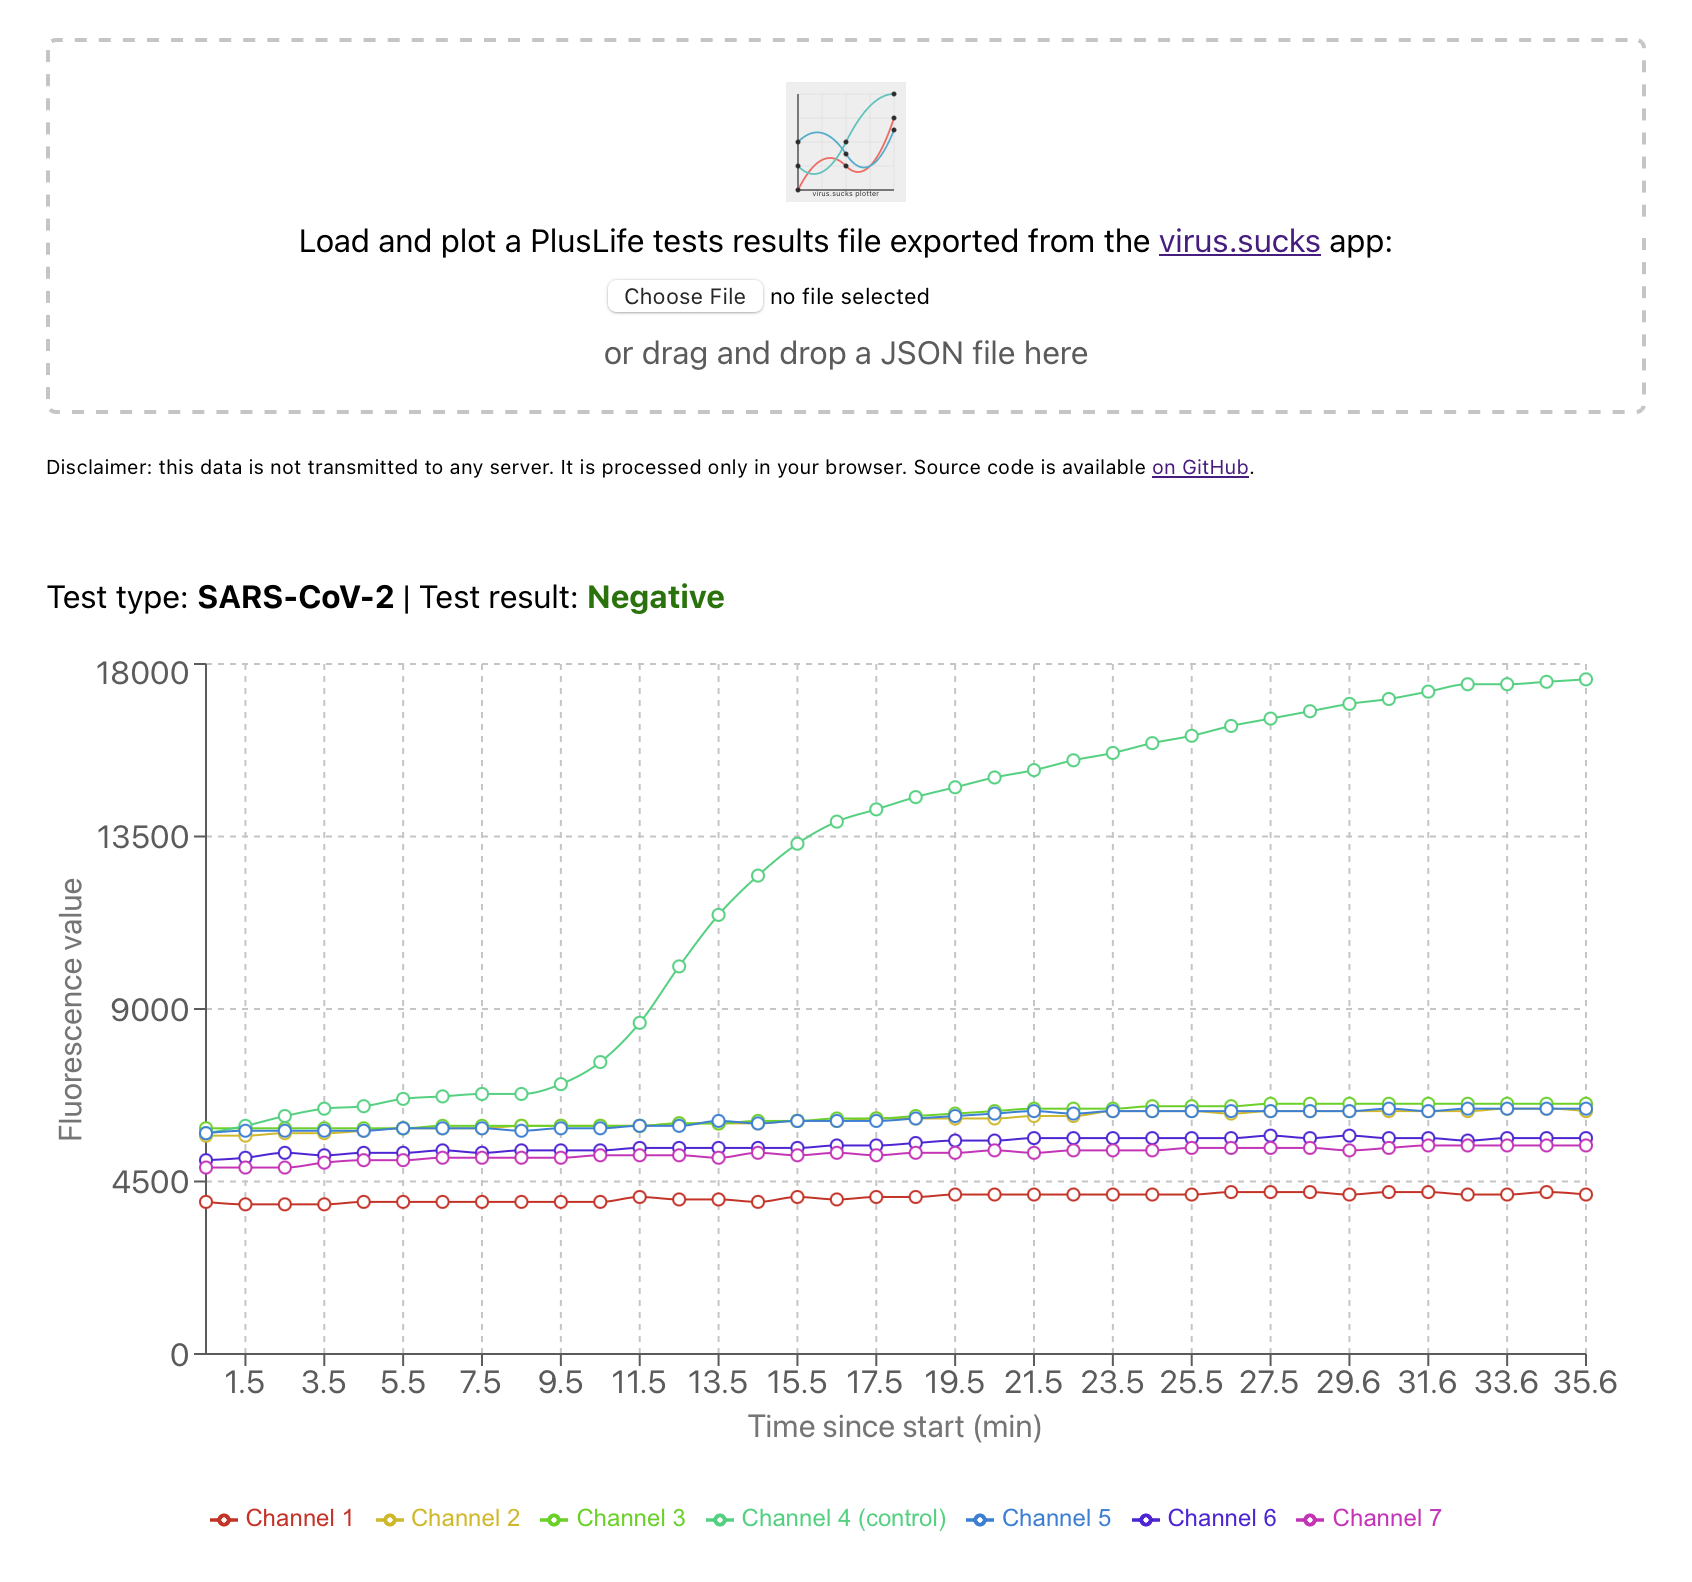
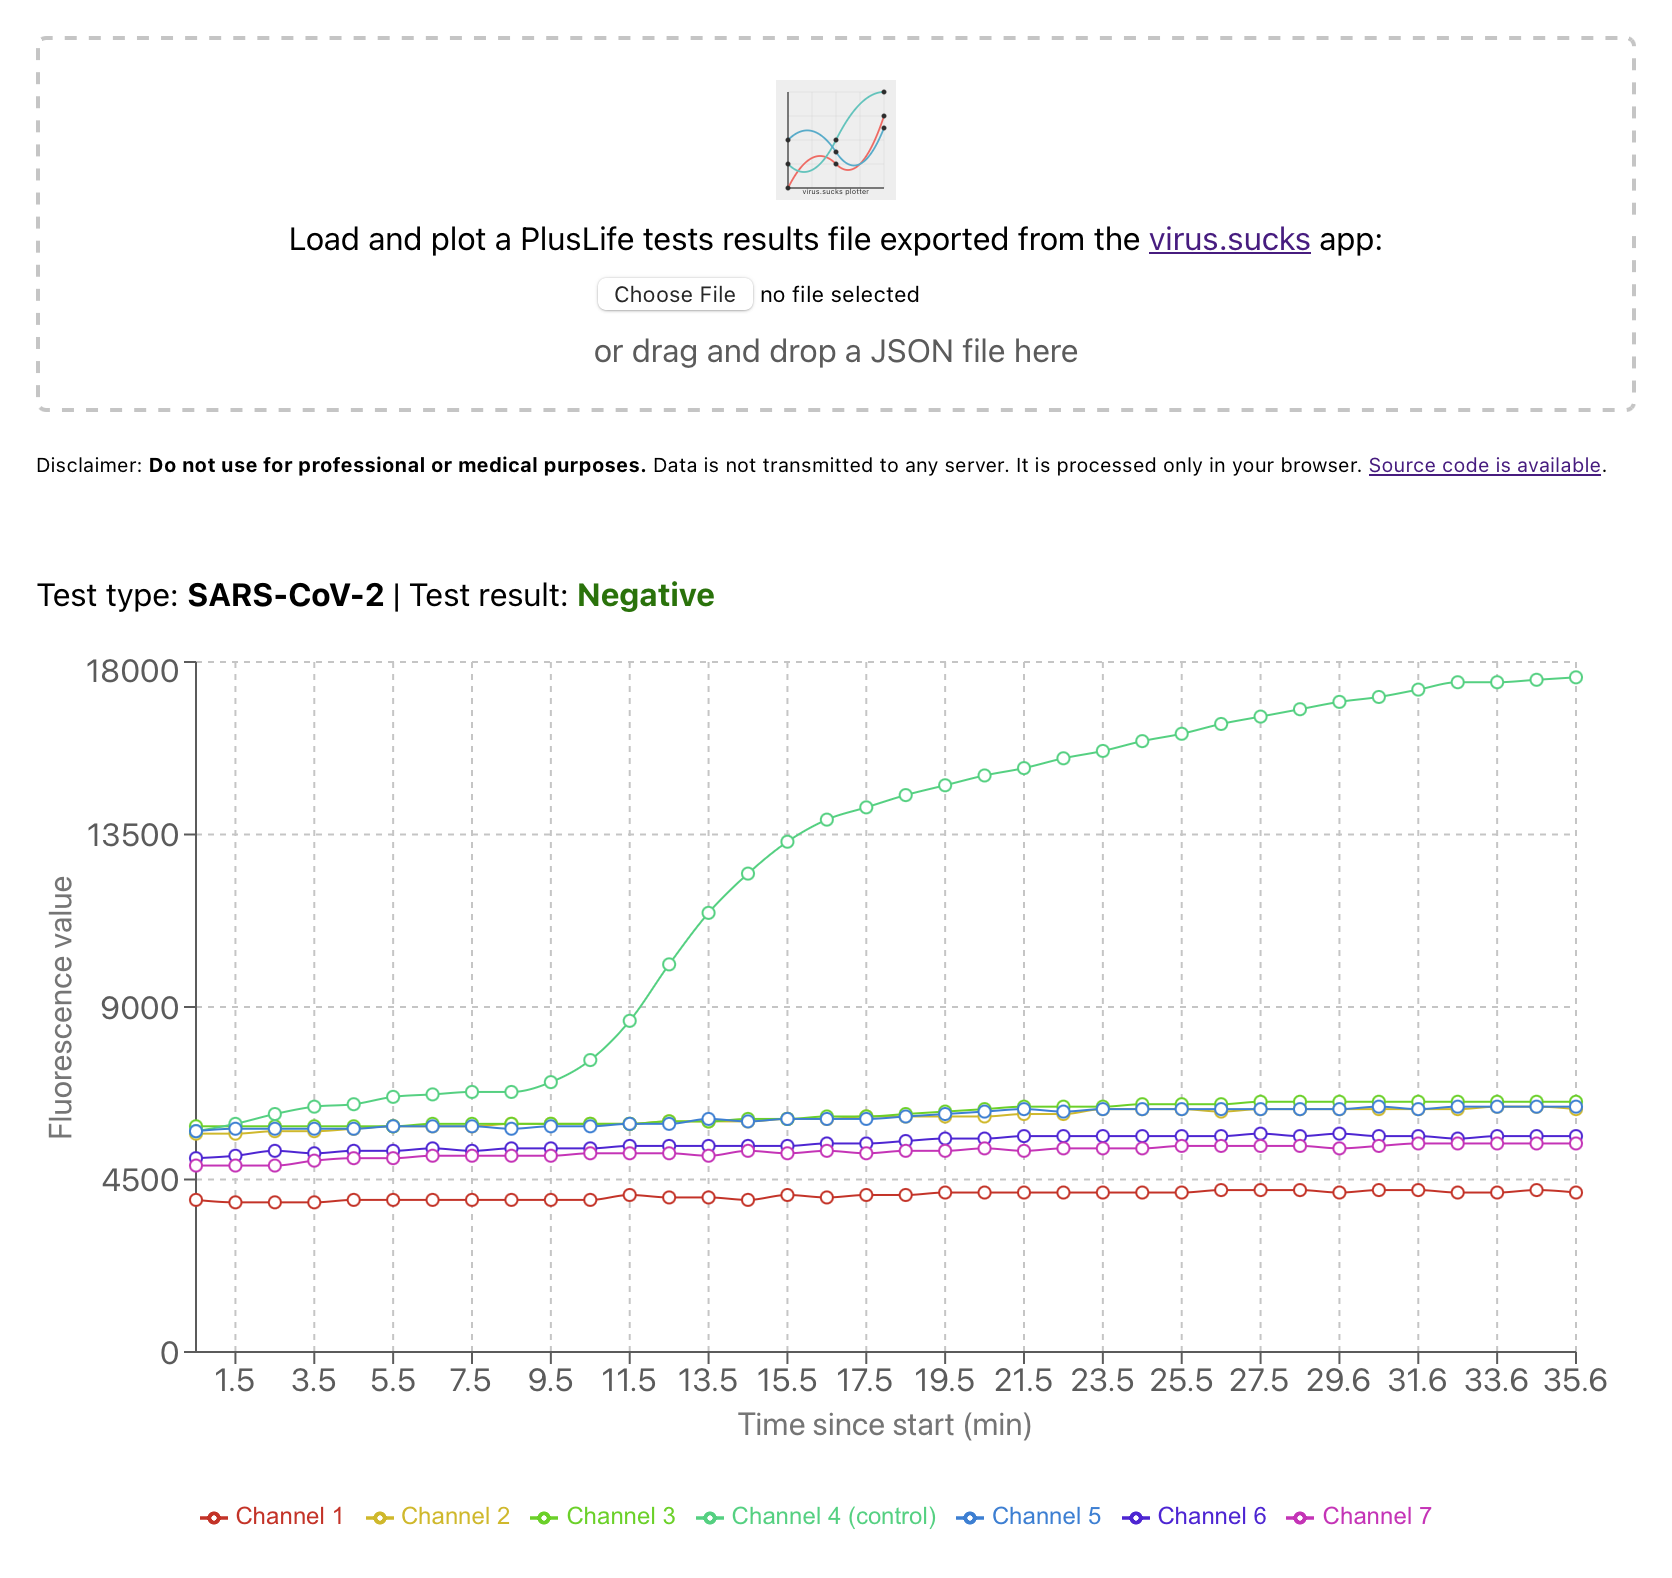
Updated disclaimer. Updated screenshot

diff --git a/src/SimpleLineChart.js b/src/SimpleLineChart.js
@@ -115,7 +115,7 @@ const SimpleLineChart = () => {
         <p>or drag and drop a JSON file here</p>
       </div>
       <div className='disclaimer'>
-        Disclaimer: this data is not transmitted to any server. It is processed only in your browser. Source code is available <a href="https://github.com/gacevedo/virus-sucks-plotter" target="_blank" rel="noopener noreferrer"> on GitHub</a>.
+        Disclaimer: <span className='disclaimer-bold'>Do not use for professional or medical purposes.</span> Data is not transmitted to any server. It is processed only in your browser. <a href="https://github.com/gacevedo/virus-sucks-plotter" target="_blank" rel="noopener noreferrer">Source code is available</a>.
       </div>
       {data && (
         <div className='test-info'>

diff --git a/src/App.css b/src/App.css
@@ -64,3 +64,7 @@
 .test-info .test-type {
   font-weight: bold;
 }
+
+.disclaimer-bold {
+  font-weight: bold;
+}
